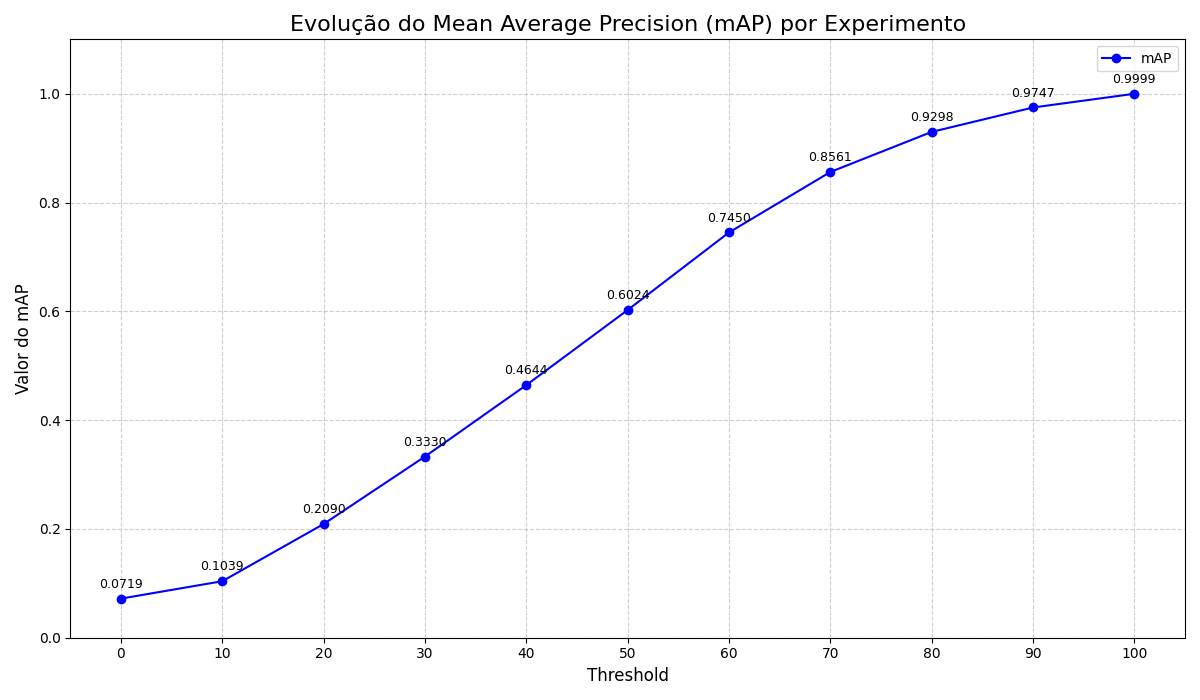
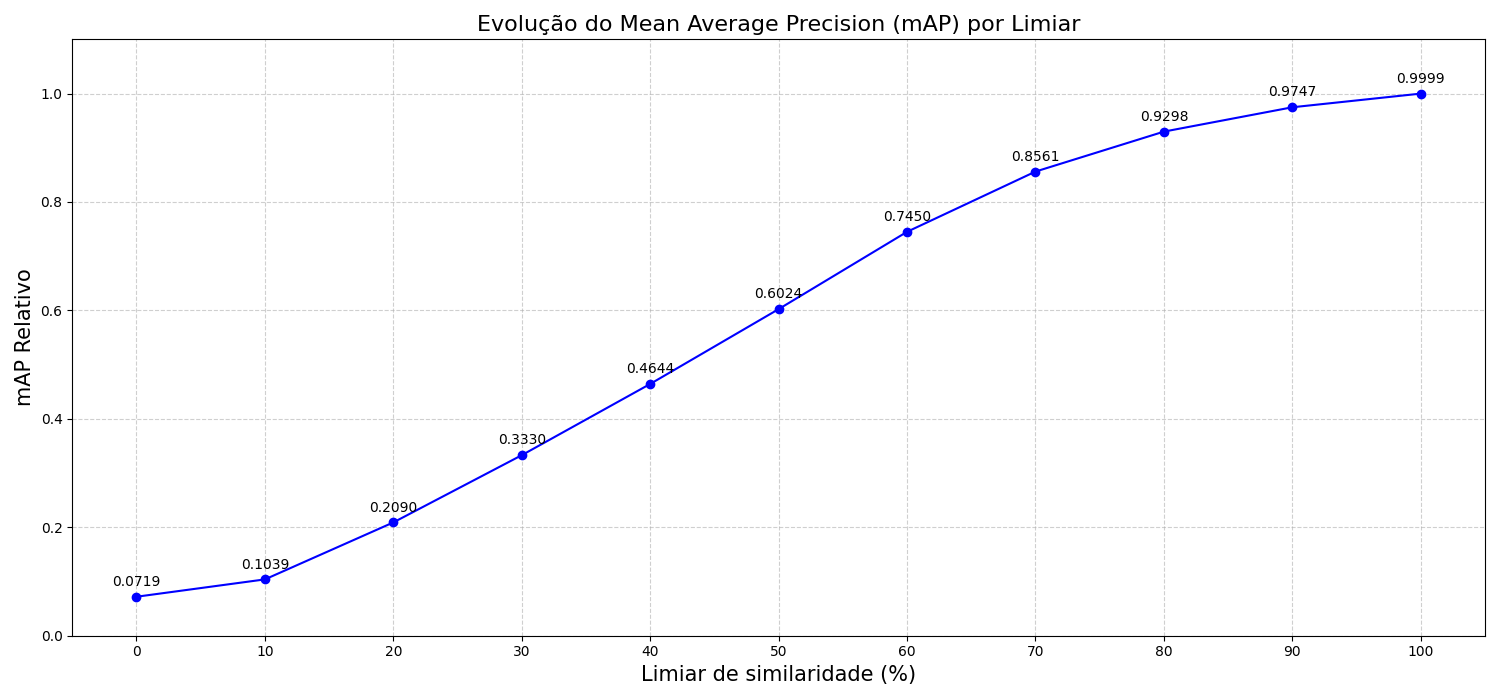
Updating graphic

diff --git a/graphs/map.py b/graphs/map.py
@@ -8,7 +8,7 @@ map_valores = [0.0719, 0.1039, 0.2090, 0.3330, 0.4644, 0.6024, 0.7450, 0.8561, 0
 
 # --- 2. Criação do Gráfico ---
 # Define o tamanho da figura para melhor visualização
-fig, ax = plt.subplots(figsize=(12, 7))
+fig, ax = plt.subplots(figsize=(15, 7))
 
 # Plota a linha principal com marcadores nos pontos
 ax.plot(experimentos, map_valores, marker='o', linestyle='-', color='b', label='mAP')
@@ -16,12 +16,12 @@ ax.plot(experimentos, map_valores, marker='o', linestyle='-', color='b', label='
 # --- 3. Melhorias no Gráfico ---
 # Adiciona o valor de cada ponto diretamente no gráfico
 for i, valor in enumerate(map_valores):
-    ax.text(experimentos[i], valor + 0.02, f'{valor:.4f}', ha='center', fontsize=9)
+    ax.text(experimentos[i], valor + 0.02, f'{valor:.4f}', ha='center', fontsize=10)
 
 # Adiciona Título e Rótulos aos Eixos
-ax.set_title('Evolução do Mean Average Precision (mAP) por Experimento', fontsize=16)
-ax.set_xlabel('Threshold', fontsize=12)
-ax.set_ylabel('Valor do mAP', fontsize=12)
+ax.set_title('Evolução do Mean Average Precision (mAP) por Limiar', fontsize=16)
+ax.set_xlabel('Limiar de similaridade (%)', fontsize=15)
+ax.set_ylabel('mAP Relativo', fontsize=15)
 
 # Garante que todos os números de experimento apareçam no eixo X
 ax.set_xticks(experimentos)
@@ -32,11 +32,8 @@ ax.set_ylim(0, 1.1)
 # Adiciona uma grade para facilitar a leitura
 ax.grid(True, linestyle='--', alpha=0.6)
 
-# Adiciona a legenda (útil se você adicionar mais linhas no futuro)
-ax.legend()
-
 # Ajusta o layout e salva o arquivo
 plt.tight_layout()
-plt.savefig('/home/hugo/Desktop/LWPDA/graphs/ouput/grafico_map_evolucao.png')
+plt.savefig('/home/hugo/Desktop/LWPDA/graphs/segmentation/grafico_map_evolucao.png')
 
 print("Gráfico 'grafico_map_evolucao.png' salvo com sucesso!")
